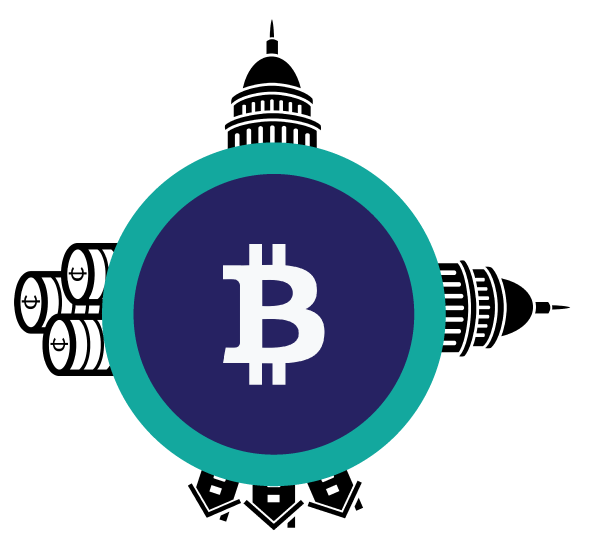
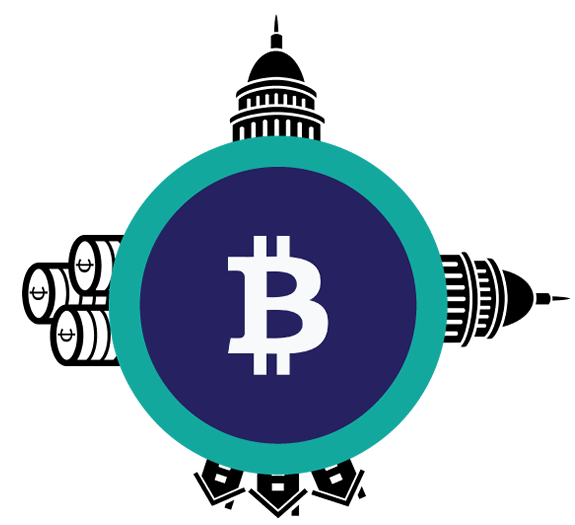
signin

Changed region(s): [[0.0, 0.0305, 1.0, 1.0], [0.3548, 0.4267, 0.5913, 0.7314]]

diff --git a/index.html b/index.html
@@ -46,13 +46,13 @@
                   <div class="row">
                       <br><h1>&nbsp;Join a World</h1><br><br><br>
                     <div class="col-md-4">
-                        <a href = "#" id = "world" rel="popover" data-html = "true" title-html = "true" title="<a onclick = 'joinworld()'>Join this World</a>" data-content="10% Bitcoin <br \> 70% Government Bonds <br \> 15% Apple (AAPL) <br \> 5% Doge Coin <br \> <b>Size: 32 people<b> <br \> <b>Net Gain: 6.9%<b>"><img src="./images/world.png" height = "250px" id = "worldbit"></a>
+                        <a href = "#" id = "world" rel="popover" data-html = "true" title-html = "true" title="<a onclick = 'joinworld()'>Join this World</a>" data-content="10% Bitcoin <br \> 70% Government Bonds <br \> 15% Apple (AAPL) <br \> 5% Doge Coin <br \> <b>Size: 32 people<b> <br \> <b>Net Gain: 6.9%<b>"><img src="./images/world.png" height = "250px" id = "worldbit" class = "rotate"></a>
                     </div>
                     <div class="col-md-4">
-                        <center id = "info"><br><br><a href = "#" id = "world2" rel="popover" data-html = "true" title-html = "true" title="<a onclick = 'joinworld2()'>Join this World</a>" data-content="30% Dark Coin <br \> 65% 3D Systems Corporation (DDD) <br \> 5% PeerCoin <br \> <b>Size: 12 people<b> <br \> <b>Net Gain: 30%<b>"><img src="./images/world1.png" height = "175px" id = "worldbit2"></a></center>
+                        <center id = "info"><br><br><a href = "#" id = "world2" rel="popover" data-html = "true" title-html = "true" title="<a onclick = 'joinworld2()'>Join this World</a>" data-content="30% Dark Coin <br \> 65% 3D Systems Corporation (DDD) <br \> 5% PeerCoin <br \> <b>Size: 12 people<b> <br \> <b>Net Gain: 30%<b>"><img src="./images/world1.png" height = "175px" id = "worldbit2" class = "rotate"></a></center>
                     </div>
                     <div class="col-md-4">
-                        <center id = "fad"><br><a href = "#" id = "world3" rel="popover" data-html = "true" title-html = "true" title="<a href = 'joinworld.html'>Join this World</a>" data-content="20% Master Coin <br \> 40% Government Bonds <br />30% Google (GOOG) <br \> 10% PrimeCoin <br \> <b>Size: 26 people<b> <br \> <b>Net Gain: 14%<b>"><img src="./images/medium.png" height = "200px" id = "worldbit3"></a></center>
+                        <center id = "fad"><br><a href = "#" id = "world3" rel="popover" data-html = "true" title-html = "true" title="<a href = 'joinworld.html'>Join this World</a>" data-content="20% Master Coin <br \> 40% Government Bonds <br />30% Google (GOOG) <br \> 10% PrimeCoin <br \> <b>Size: 26 people<b> <br \> <b>Net Gain: 14%<b>"><img src="./images/medium.png" height = "200px" id = "worldbit3" class = "rotate"></a></center>
                     <script>  
                         var pressedjoinworld = false;
                         var pressedjoinworld2 = false;

diff --git a/about.html b/about.html
@@ -53,7 +53,7 @@
                 <div class="container">
                   <div class="row">
                     <div class="col-md-12">
-                      <center><img src="./images/new_bit_planet.png" height = "250px"></center>
+                      <center><img src="./images/new_bit_planet.png" height = "250px" class = "rotate"></center>
                     </div>
                   </div>
                 </div>
@@ -63,7 +63,7 @@
                 <div class="container">
                   <div class="row">
                     <div class="col-md-12">
-                      <center><br><br><br><img src="./images/world.png" height = "250px"></center>
+                      <center><br><br><br><img src="./images/world.png" height = "250px" class = "rotate"></center>
                     </div>
                   </div>
                 </div>
@@ -74,7 +74,7 @@
                 <div class="container">
                   <div class="row">
                     <div class="col-md-12">
-                      <center><br><br><br><img src="./images/world.png" height = "250px"></center>
+                      <center><br><br><br><img src="./images/world.png" height = "250px" ></center>
                     </div>
                   </div>
                 </div>

diff --git a/createworld.html b/createworld.html
@@ -46,7 +46,7 @@
             <div class="container">
               <div class="row">
                 <div class="col-md-4">
-                  <img src="./images/world.png" height = "450px">
+                  <img src="./images/world.png" height = "450px" class = "rotate">
                 </div>
                   <div class="col-md-2">
                       </div>

diff --git a/joinworld.html b/joinworld.html
@@ -44,7 +44,7 @@
         <div class="container">
           <div class="row">
             <div class="col-md-4">
-              <center><img src="./images/world.png" height = "500px"></center>
+              <center><img src="./images/world.png" height = "500px" class = "rotate"></center>
             </div>
               <div class="col-md-2">
               </div>

diff --git a/mystyles.css b/mystyles.css
@@ -33,9 +33,9 @@ h1 {
 
 }
 
-img{ 
-    -moz-animation:30s rotateRight infinite linear; 
-    -webkit-animation:30s rotateRight infinite linear; 
+.rotate{ 
+    -moz-animation:90s rotateRight infinite linear; 
+    -webkit-animation:90s rotateRight infinite linear; 
 }
 
 @-moz-keyframes rotateRight{
